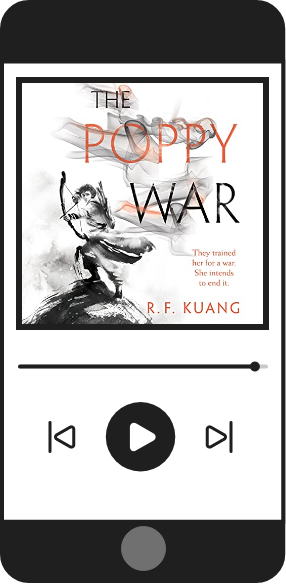
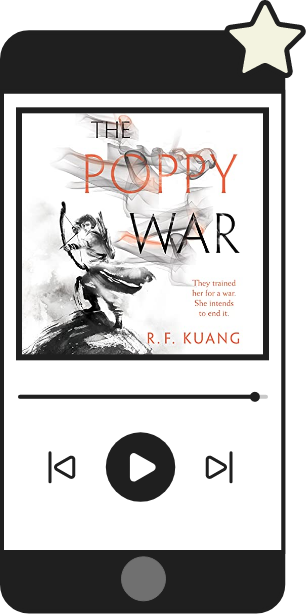
Add book

diff --git a/src/data/books.ts b/src/data/books.ts
@@ -1182,7 +1182,32 @@ export const bookData: Book[] = [
     progress: "finished",
     bookCoverColor: "White",
     bookCoverObject: "Woman",
-    fav: false,
+    fav: true,
+    pageProgress: 100,
+    tbr: false,
+    tbrMonth: "",
+    library: false,
+    dedication: { text: "", person: "" }
+  },
+  {
+    title: "The Dragon Republic",
+    author: ["R.F. Kuang"],
+    audioBookNarrator: ["Emily Woo Zeller"],
+    publishedYear: 2019,
+    setting: ["Fictional", "Asia"],
+    genre: ["Fantasy", "Horror", "Retelling", "China", "Magic", "War"],
+    age: "Adult",
+    type: "Fiction",
+    pages: 658,
+    medium: "Audio",
+    rating: 5,
+    dateStarted: "07/30/2022",
+    dateFinished: "08/01/2022",
+    dnfDate: "",
+    progress: "finished",
+    bookCoverColor: "White",
+    bookCoverObject: "Dragon",
+    fav: true,
     pageProgress: 100,
     tbr: false,
     tbrMonth: "",

diff --git a/src/data/authors.js b/src/data/authors.js
@@ -458,11 +458,11 @@ export const authorData = [
   },
   {
     name: "R. F. Kuang",
-    books: ["The Poppy War"],
+    books: ["The Poppy War", "The Dragon Republic"],
     poc: true,
     gender: "female",
     lgbt: false,
-    fav: false,
+    fav: true,
     country: [
       {
         code: "US",
